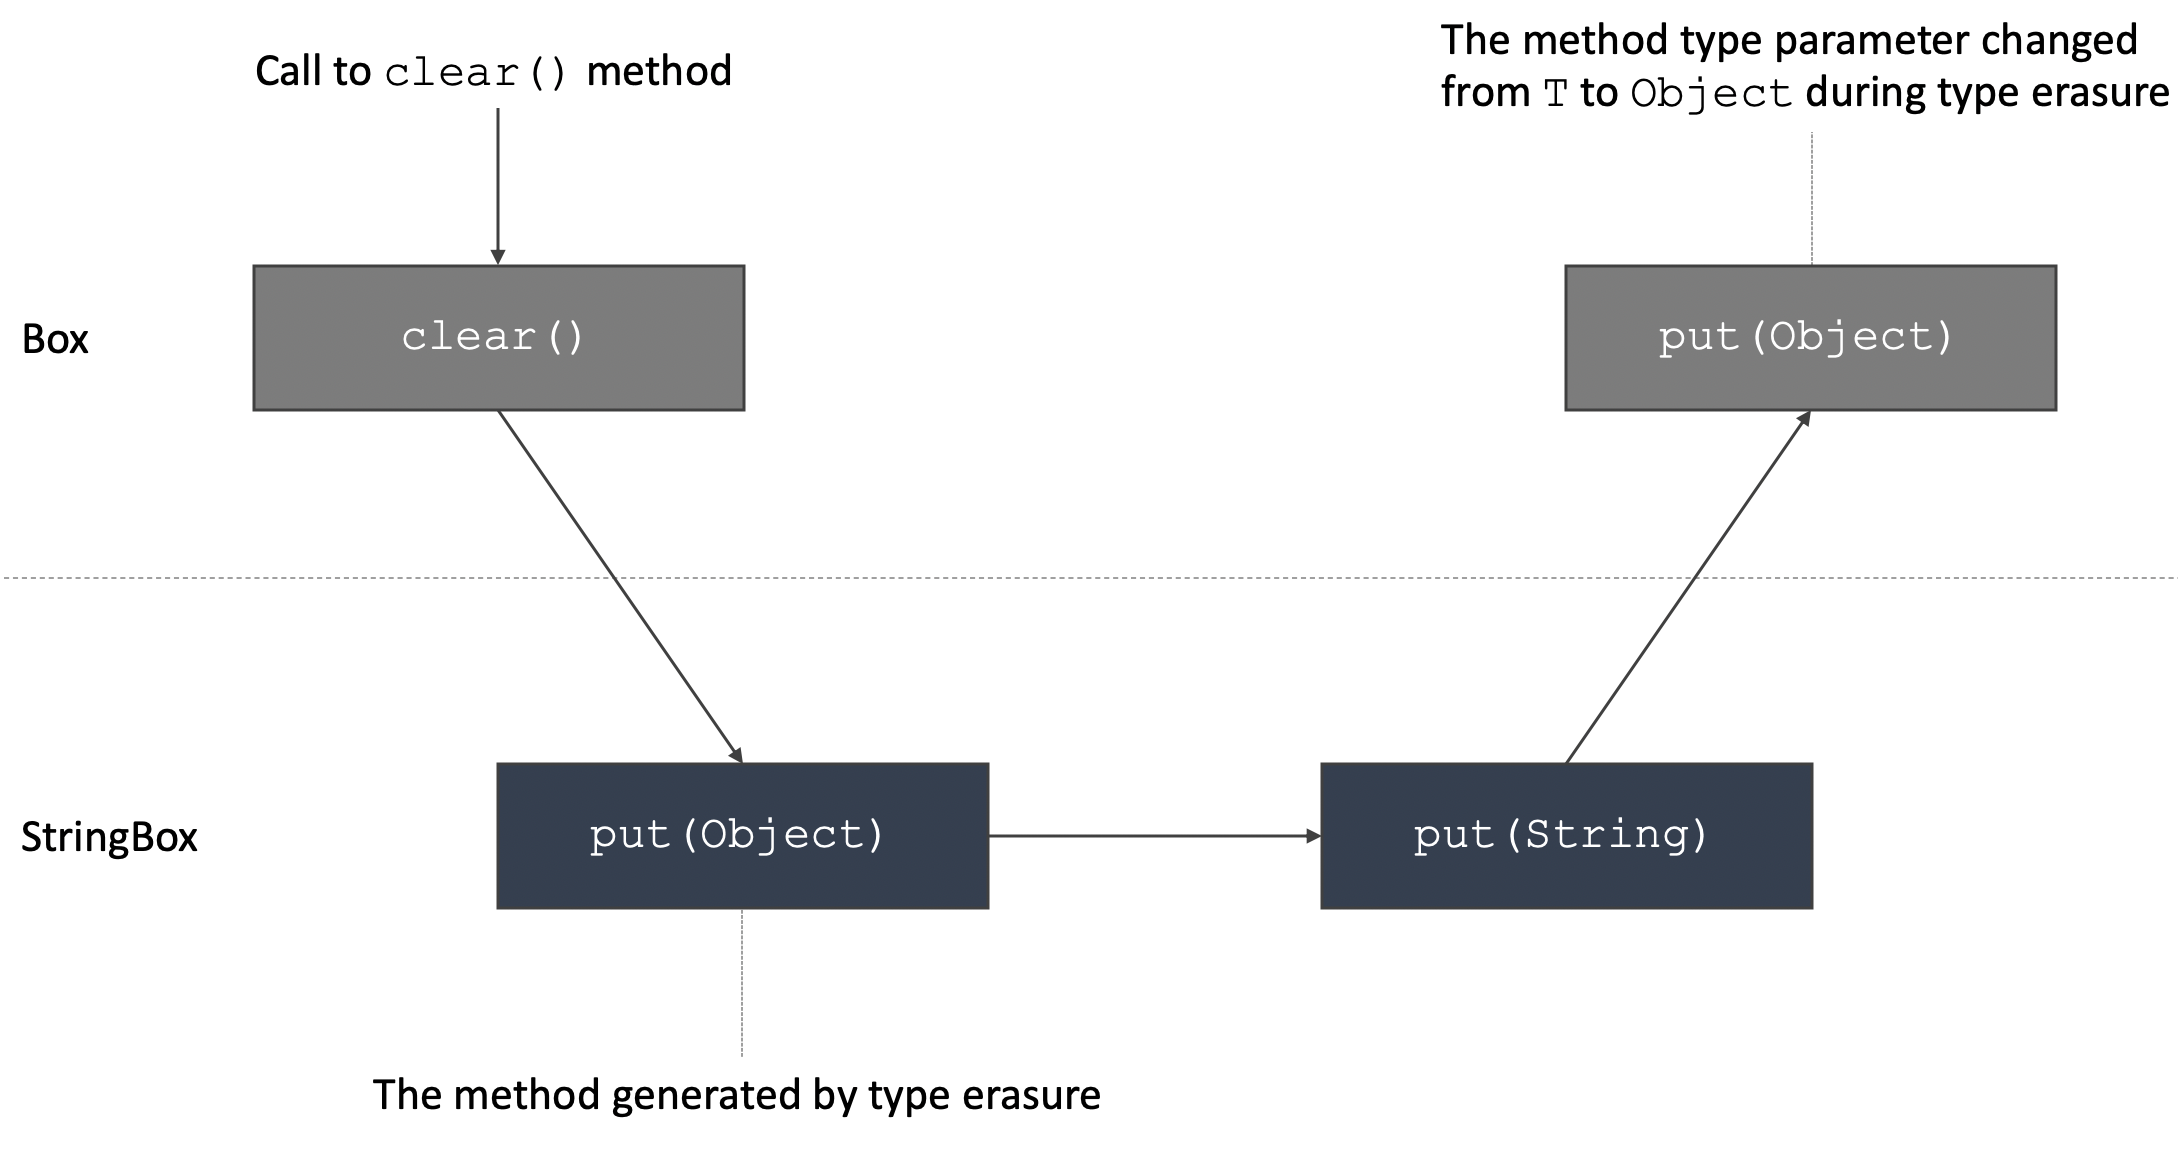
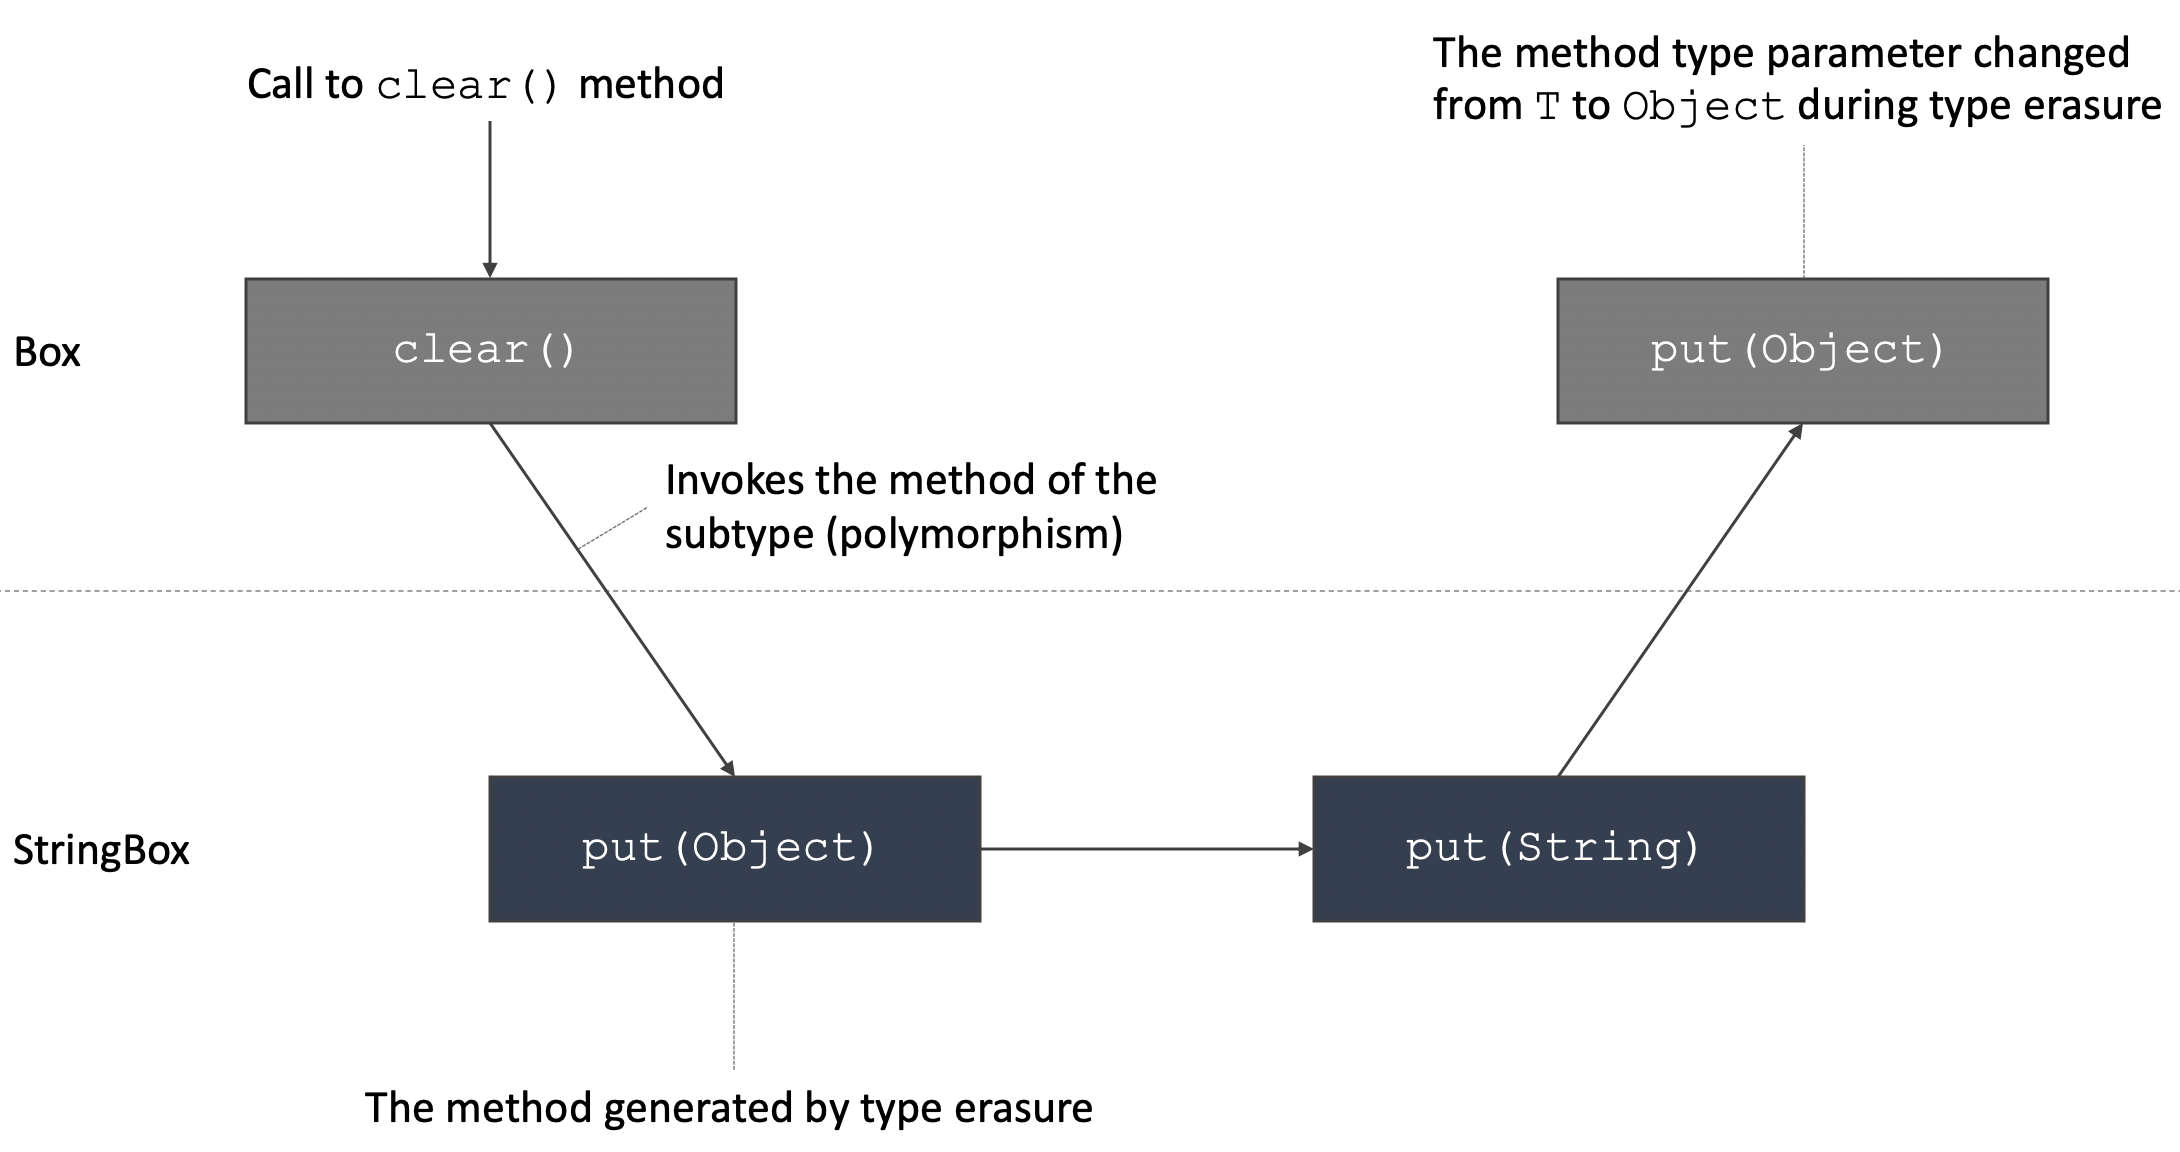
Update notes

diff --git a/docs/09-generics/06-erasure.md b/docs/09-generics/06-erasure.md
@@ -516,9 +516,9 @@ public class App {
 }
 ```
 
-The `clear()` method invokes the `put()` method that takes an `Object`.  The subtype, `StringBox`, has its own of `put()` method that overrides the `put()` method in the `Box` class.   This method was generated by the type erasure.  The generated method calls our method `put()` that takes a `String`, which calls the parent's method as shown next.
+The `clear()` method invokes the `put()` method that takes an `Object`.  The subtype, `StringBox`, has its own of `put()` method that overrides the `put()` method in the `Box` class.  This method was generated by the type erasure.  The generated method calls our method `put()` that takes a `String`, which calls the parent's method as shown next.
 
-![Raw Types]({{ '/assets/images/Raw-Types-Generics-Call-1.png' | absolute_url }})
+![Raw Types]({{ '/assets/images/Raw-Types-Generics-Call-2.png' | absolute_url }})
 
 ## Others
 
